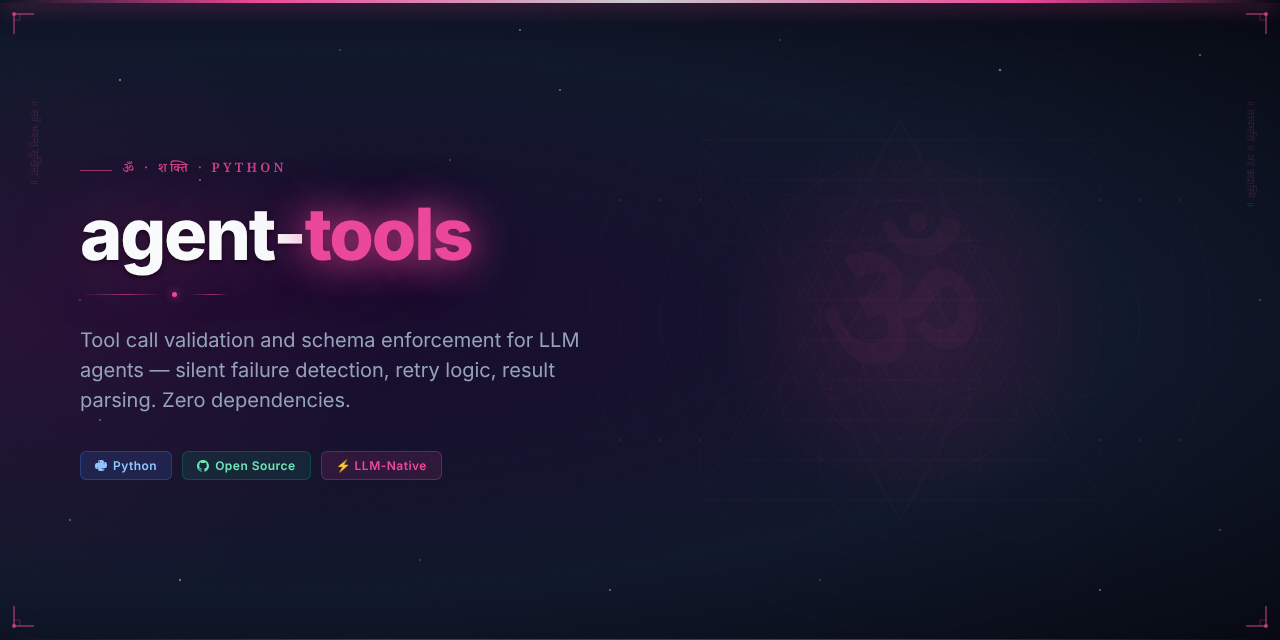
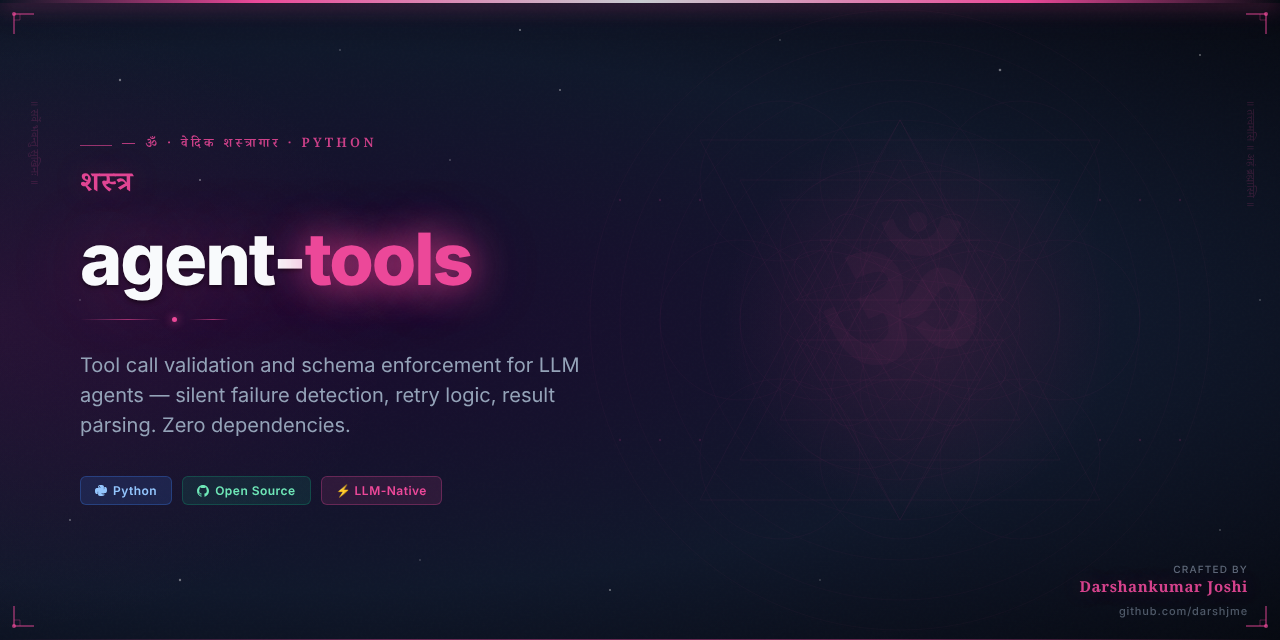
feat: add Vedic Arsenal hero image and updated README
Part of darshjme/arsenal — 100 production-grade Python libraries for LLM agents.
Vedic branding: ancient philosophy meets modern AI engineering.

diff --git a/README.md b/README.md
@@ -1,10 +1,12 @@
 <div align="center">
 
-<img src="assets/agent-tools-hero.png" alt="agent-tools — Vedic Arsenal" width="100%" />
+<img src="assets/agent-tools-hero.png" alt="agent-tools — Vedic Arsenal by Darshankumar Joshi" width="100%" />
 
 # 🪷 agent-tools
 
-### *शस्त्र* — Shastra — sacred tools wielded with precision
+<h3><em>शस्त्र</em></h3>
+
+> *Shastra — sacred tools wielded with precision*
 
 **Tool call validation and schema enforcement for LLM agents — silent failure detection, retry logic, result parsing. Zero dependencies.**
 
@@ -39,6 +41,19 @@ Or clone directly:
 git clone https://github.com/darshjme/agent-tools.git
 cd agent-tools
 pip install -e .
+```
+
+## How It Works
+
+```mermaid
+flowchart LR
+    A[Input] --> B[agent-tools]
+    B --> C{Process}
+    C -- Success --> D[Output]
+    C -- Error --> E[Handle / Retry]
+    E --> B
+    style B fill:#6b21a8,color:#fff
+    note["Tools — Zero Dependencies"]
 ```
 
 ## Quick Start
@@ -90,7 +105,7 @@ MIT — use freely, build freely.
 
 <div align="center">
 
-**Built with 🪷 by [Darshankumar Joshi](https://github.com/darshjme)**
+**Built with 🪷 by [Darshankumar Joshi](https://github.com/darshjme)** · [@thedarshanjoshi](https://twitter.com/thedarshanjoshi)
 
 *"कर्मण्येवाधिकारस्ते मा फलेषु कदाचन"*
 *Your right is to action alone, never to the fruits thereof.*
